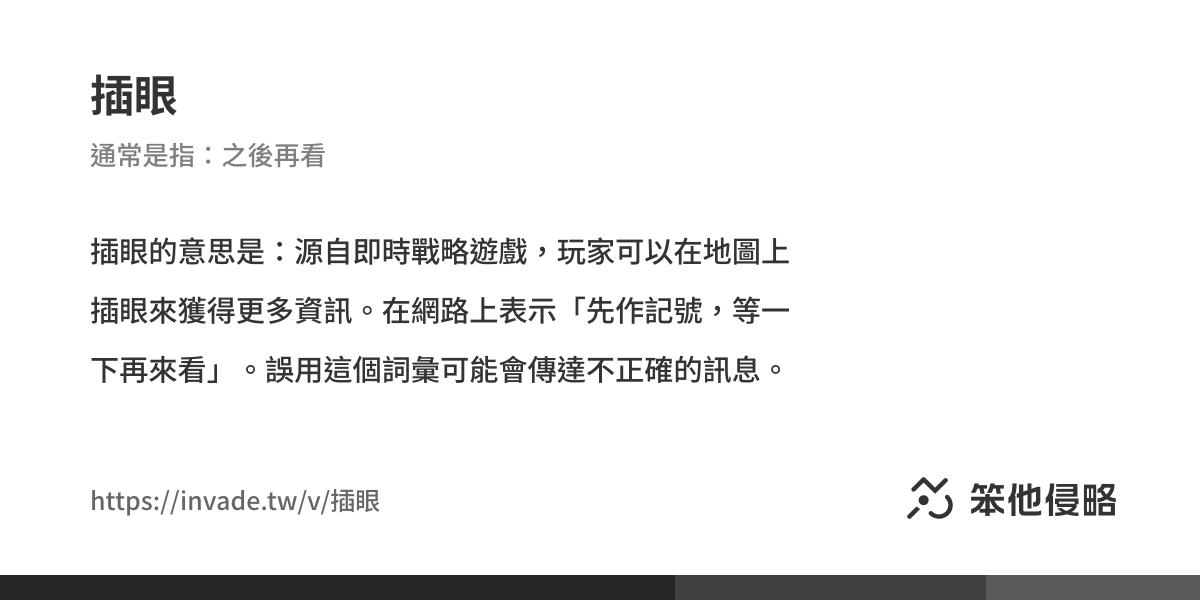
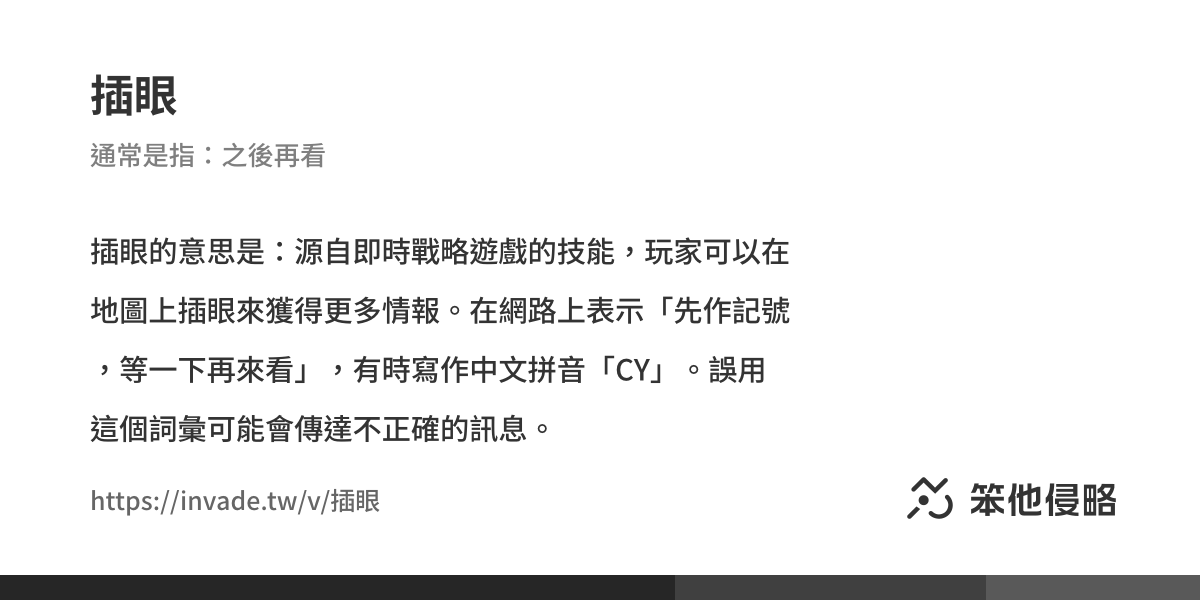
update

diff --git a/docs/v/插眼.html b/docs/v/插眼.html
@@ -1,9 +1,9 @@
-<!doctype html><html class="is-secondary is-sharp"><meta charset=utf-8><meta name=viewport content="width=device-width,initial-scale=1"><title>《插眼》的意思、解釋及例句｜中國侵略性詞彙、支語字典</title><link rel=stylesheet href=https://invade.tw/assets/tocas/tocas.min.css><script src=https://invade.tw/assets/tocas/tocas.min.js></script><link rel=preconnect href=https://fonts.googleapis.com><link rel=preconnect href=https://fonts.gstatic.com crossorigin><link href="https://fonts.googleapis.com/css2?family=Noto+Sans+TC:wght@400;500;700&display=swap" rel=stylesheet><link rel=stylesheet href=https://invade.tw/assets/styles/style.css><link rel=stylesheet href=https://invade.tw/assets/styles/vocab.css><script src=https://invade.tw/assets/scripts/db_store.js defer></script><script src=https://invade.tw/assets/scripts/db_random_items.js defer></script><script src=https://invade.tw/assets/scripts/db_random_vocabs.js defer></script><script src=https://invade.tw/assets/scripts/random_store.js defer></script><script src=https://cdnjs.cloudflare.com/ajax/libs/alpinejs/3.14.5/cdn.min.js defer></script><meta name=description content=插眼的意思是：源自即時戰略遊戲，玩家可以在地圖上插眼來獲得更多資訊。在網路上表示「先作記號，等一下再來看」。><meta name=twitter:card content=summary><meta name=twitter:title content=《插眼》的意思、解釋及例句｜中國侵略性詞彙、支語字典><meta name=twitter:description content=插眼的意思是：源自即時戰略遊戲，玩家可以在地圖上插眼來獲得更多資訊。在網路上表示「先作記號，等一下再來看」。><meta name=twitter:image content=https://invade.tw/assets/vocab_covers/5o+S55y8.png><meta property=og:site_name content=中國侵略資料庫><meta property=og:title content=《插眼》的意思、解釋及例句｜中國侵略性詞彙、支語字典><meta property=og:type content=article><meta property=og:image content=https://invade.tw/assets/vocab_covers/5o+S55y8.png><meta property=og:url content=https://invade.tw/v/插眼><meta property=og:image:type content=image/png><meta property=og:image:width content=1200><meta property=og:image:height content=600><meta property=og:description content=插眼的意思是：源自即時戰略遊戲，玩家可以在地圖上插眼來獲得更多資訊。在網路上表示「先作記號，等一下再來看」。><meta property=og:updated_time content=2025-02-13T10:00:44+08:00><meta property=article:modified_time content=2025-02-13T10:00:44+08:00><link rel=apple-touch-icon sizes=180x180 href=https://invade.tw/assets/favicons/apple-touch-icon.png><link rel=icon type=image/png sizes=32x32 href=https://invade.tw/assets/favicons/favicon-32x32.png><link rel=icon type=image/png sizes=16x16 href=https://invade.tw/assets/favicons/favicon-16x16.png><link rel=manifest href=https://invade.tw/assets/favicons/site.webmanifest><link rel=mask-icon href=https://invade.tw/assets/favicons/safari-pinned-tab.svg color=#5bbad5><link rel="shortcut icon" href=https://invade.tw/assets/favicons/favicon.ico><meta name=msapplication-TileColor content=#da532c><meta name=msapplication-config content=https://invade.tw/assets/favicons/browserconfig.xml><meta name=theme-color content=#ffffff><body class="tablet:裝置-平板 mobile:裝置-行動" x-data=random_store><div id=導覽列><div class=ts-container><div class="ts-grid is-middle-aligned is-relaxed mobile:has-hidden"><div class=column><div class="ts-wrap is-middle-aligned is-relaxed"><a href=https://invade.tw class="ts-image has-leading-none"><img id=導覽列-商標 src=https://invade.tw/assets/images/logo-text.svg></a>
+<!doctype html><html class="is-secondary is-sharp"><meta charset=utf-8><meta name=viewport content="width=device-width,initial-scale=1"><title>《插眼》的意思、解釋及例句｜中國侵略性詞彙、支語字典</title><link rel=stylesheet href=https://invade.tw/assets/tocas/tocas.min.css><script src=https://invade.tw/assets/tocas/tocas.min.js></script><link rel=preconnect href=https://fonts.googleapis.com><link rel=preconnect href=https://fonts.gstatic.com crossorigin><link href="https://fonts.googleapis.com/css2?family=Noto+Sans+TC:wght@400;500;700&display=swap" rel=stylesheet><link rel=stylesheet href=https://invade.tw/assets/styles/style.css><link rel=stylesheet href=https://invade.tw/assets/styles/vocab.css><script src=https://invade.tw/assets/scripts/db_store.js defer></script><script src=https://invade.tw/assets/scripts/db_random_items.js defer></script><script src=https://invade.tw/assets/scripts/db_random_vocabs.js defer></script><script src=https://invade.tw/assets/scripts/random_store.js defer></script><script src=https://cdnjs.cloudflare.com/ajax/libs/alpinejs/3.14.5/cdn.min.js defer></script><meta name=description content=插眼的意思是：源自即時戰略遊戲的技能，玩家可以在地圖上插眼來獲得更多情報。在網路上表示「先作記號，等一下再來看」，有時寫作中文拼音「CY」。><meta name=twitter:card content=summary><meta name=twitter:title content=《插眼》的意思、解釋及例句｜中國侵略性詞彙、支語字典><meta name=twitter:description content=插眼的意思是：源自即時戰略遊戲的技能，玩家可以在地圖上插眼來獲得更多情報。在網路上表示「先作記號，等一下再來看」，有時寫作中文拼音「CY」。><meta name=twitter:image content=https://invade.tw/assets/vocab_covers/5o+S55y8.png><meta property=og:site_name content=中國侵略資料庫><meta property=og:title content=《插眼》的意思、解釋及例句｜中國侵略性詞彙、支語字典><meta property=og:type content=article><meta property=og:image content=https://invade.tw/assets/vocab_covers/5o+S55y8.png><meta property=og:url content=https://invade.tw/v/插眼><meta property=og:image:type content=image/png><meta property=og:image:width content=1200><meta property=og:image:height content=600><meta property=og:description content=插眼的意思是：源自即時戰略遊戲的技能，玩家可以在地圖上插眼來獲得更多情報。在網路上表示「先作記號，等一下再來看」，有時寫作中文拼音「CY」。><meta property=og:updated_time content=2025-02-13T10:03:00+08:00><meta property=article:modified_time content=2025-02-13T10:03:00+08:00><link rel=apple-touch-icon sizes=180x180 href=https://invade.tw/assets/favicons/apple-touch-icon.png><link rel=icon type=image/png sizes=32x32 href=https://invade.tw/assets/favicons/favicon-32x32.png><link rel=icon type=image/png sizes=16x16 href=https://invade.tw/assets/favicons/favicon-16x16.png><link rel=manifest href=https://invade.tw/assets/favicons/site.webmanifest><link rel=mask-icon href=https://invade.tw/assets/favicons/safari-pinned-tab.svg color=#5bbad5><link rel="shortcut icon" href=https://invade.tw/assets/favicons/favicon.ico><meta name=msapplication-TileColor content=#da532c><meta name=msapplication-config content=https://invade.tw/assets/favicons/browserconfig.xml><meta name=theme-color content=#ffffff><body class="tablet:裝置-平板 mobile:裝置-行動" x-data=random_store><div id=導覽列><div class=ts-container><div class="ts-grid is-middle-aligned is-relaxed mobile:has-hidden"><div class=column><div class="ts-wrap is-middle-aligned is-relaxed"><a href=https://invade.tw class="ts-image has-leading-none"><img id=導覽列-商標 src=https://invade.tw/assets/images/logo-text.svg></a>
 <a class=導覽列-項目 href=https://invade.tw/items><span class="ts-icon is-regular is-compass-icon"></span>瀏覽</a></div></div><div class="column is-center-aligned is-fluid"><form action=https://invade.tw/vocabs><div id=導覽列-搜尋欄位 class="ts-input is-solid is-start-icon tablet:has-hidden"><span class="ts-icon is-magnifying-glass-icon"></span><input type=search name=q placeholder=搜尋詞彙…></div></form></div><div class=column><div class="ts-wrap is-relaxed is-end-aligned"><a class=導覽列-項目 href=https://invade.tw/about><span class="ts-icon is-regular is-circle-question-icon"></span>關於</a>
 <a class=導覽列-項目 href=https://invade.tw/news><span class="ts-icon is-regular is-message-icon"></span>新聞</a>
 <a class=導覽列-項目 target=_blank href=https://github.com/caris-events/invade><span class="ts-icon is-brand is-github-icon"></span>GitHub</a></div></div></div><div class="ts-grid is-middle-aligned tablet+:has-hidden"><div class="column is-fluid"><div class="ts-wrap is-middle-aligned is-relaxed"><button id=導覽列-漢堡按鈕 type=button class="ts-button is-icon is-large is-ghost" data-dialog=側邊欄>
 <span class="ts-icon is-bars-icon"></span></button>
-<a href=https://invade.tw class="ts-image has-leading-none"><img id=導覽列-商標 src=https://invade.tw/assets/images/logo-text.svg></a></div></div><div class=column><a class="ts-button is-icon is-large is-ghost" href=https://invade.tw/vocabs><span class="ts-icon is-magnifying-glass-icon"></span></a><a class="ts-button is-icon is-large is-ghost" href=https://github.com/caris-events/invade target=_blank><span class="ts-icon is-brand is-github-icon"></span></a></div></div></div></div><div class=ts-divider></div><dialog id=側邊欄 class="ts-app-drawer is-start"><div class="content has-flex-column"><div id=側邊欄-標頭 class=ts-content><button id=側邊欄-關閉按鈕 class="ts-close is-secondary is-large" data-dialog=側邊欄></button></div><div id=側邊欄-選單 class="ts-menu is-start-icon"><div class=ts-divider></div><a class=item href=https://invade.tw><span class="ts-icon is-house-icon"></span>首頁</a><div class=ts-divider></div><a class=item href=https://invade.tw/items><span class="ts-icon is-list-icon"></span>瀏覽所有項目</a><div class=ts-divider></div></div><div class=has-top-spaced-auto><div id=側邊欄-選單 class="ts-menu is-start-icon"><div class=ts-divider></div><a class=item href=https://invade.tw/about><span class="ts-icon is-circle-question-icon"></span>關於</a><div class=ts-divider></div><a class=item href=https://invade.tw/news><span class="ts-icon is-newspaper-icon"></span>新聞</a><div class=ts-divider></div><a class=item target=_blank href=https://invade.tw/contribute><span class="ts-icon is-pen-to-square-icon"></span>建議、修改條目</a><div class=ts-divider></div><a class=item target=_blank href=https://github.com/caris-events/invade><span class="ts-icon is-brand is-github-icon"></span>GitHub</a><div class=ts-divider></div></div></div><div class=ts-content><button class="ts-button is-outlined is-fluid" data-dialog=側邊欄>關閉選單</button></div></div></dialog><div class="ts-container tablet-:has-vertically-padded-large desktop+:has-vertically-padded-big mobile:is-fitted"><div id=單字-板岩><div class=ts-grid><div class="column is-fluid"><div class="ts-wrap is-compact has-bottom-spaced tablet+:has-hidden"><a href="https://invade.tw/vocabs?c=INTERNET" class="ts-badge is-secondary">網路用語</a></div><div class="ts-wrap mobile:is-compact"><div class=單字-板岩-每個分解><div class=單字-板岩-每個分解-漢字>插</div><div class="單字-板岩-每個分解-注音 has-flex-center"><div class="ts-text is-bold">ㄔ</div><div class="ts-text is-bold">ㄚ</div></div></div><div class=單字-板岩-每個分解><div class=單字-板岩-每個分解-漢字>眼</div><div class="單字-板岩-每個分解-注音 has-flex-center"><div class="ts-text is-bold">ㄧ</div><div class="ts-text is-bold">ㄢ</div><div class=單字-板岩-每個分解-注音-標點符號>ˇ</div></div></div></div><div id=單字-板岩-說明 class="tablet+:has-top-spaced-large mobile:has-top-spaced tablet+:has-16px mobile:has-15px">源自即時戰略遊戲，玩家可以在地圖上插眼來獲得更多資訊。在網路上表示「先作記號，等一下再來看」。</div></div><div class="column mobile:has-hidden"><div class="ts-wrap is-compact is-end-aligned"><span class="ts-text is-secondary">分類：</span>
+<a href=https://invade.tw class="ts-image has-leading-none"><img id=導覽列-商標 src=https://invade.tw/assets/images/logo-text.svg></a></div></div><div class=column><a class="ts-button is-icon is-large is-ghost" href=https://invade.tw/vocabs><span class="ts-icon is-magnifying-glass-icon"></span></a><a class="ts-button is-icon is-large is-ghost" href=https://github.com/caris-events/invade target=_blank><span class="ts-icon is-brand is-github-icon"></span></a></div></div></div></div><div class=ts-divider></div><dialog id=側邊欄 class="ts-app-drawer is-start"><div class="content has-flex-column"><div id=側邊欄-標頭 class=ts-content><button id=側邊欄-關閉按鈕 class="ts-close is-secondary is-large" data-dialog=側邊欄></button></div><div id=側邊欄-選單 class="ts-menu is-start-icon"><div class=ts-divider></div><a class=item href=https://invade.tw><span class="ts-icon is-house-icon"></span>首頁</a><div class=ts-divider></div><a class=item href=https://invade.tw/items><span class="ts-icon is-list-icon"></span>瀏覽所有項目</a><div class=ts-divider></div></div><div class=has-top-spaced-auto><div id=側邊欄-選單 class="ts-menu is-start-icon"><div class=ts-divider></div><a class=item href=https://invade.tw/about><span class="ts-icon is-circle-question-icon"></span>關於</a><div class=ts-divider></div><a class=item href=https://invade.tw/news><span class="ts-icon is-newspaper-icon"></span>新聞</a><div class=ts-divider></div><a class=item target=_blank href=https://invade.tw/contribute><span class="ts-icon is-pen-to-square-icon"></span>建議、修改條目</a><div class=ts-divider></div><a class=item target=_blank href=https://github.com/caris-events/invade><span class="ts-icon is-brand is-github-icon"></span>GitHub</a><div class=ts-divider></div></div></div><div class=ts-content><button class="ts-button is-outlined is-fluid" data-dialog=側邊欄>關閉選單</button></div></div></dialog><div class="ts-container tablet-:has-vertically-padded-large desktop+:has-vertically-padded-big mobile:is-fitted"><div id=單字-板岩><div class=ts-grid><div class="column is-fluid"><div class="ts-wrap is-compact has-bottom-spaced tablet+:has-hidden"><a href="https://invade.tw/vocabs?c=INTERNET" class="ts-badge is-secondary">網路用語</a></div><div class="ts-wrap mobile:is-compact"><div class=單字-板岩-每個分解><div class=單字-板岩-每個分解-漢字>插</div><div class="單字-板岩-每個分解-注音 has-flex-center"><div class="ts-text is-bold">ㄔ</div><div class="ts-text is-bold">ㄚ</div></div></div><div class=單字-板岩-每個分解><div class=單字-板岩-每個分解-漢字>眼</div><div class="單字-板岩-每個分解-注音 has-flex-center"><div class="ts-text is-bold">ㄧ</div><div class="ts-text is-bold">ㄢ</div><div class=單字-板岩-每個分解-注音-標點符號>ˇ</div></div></div></div><div id=單字-板岩-說明 class="tablet+:has-top-spaced-large mobile:has-top-spaced tablet+:has-16px mobile:has-15px">源自即時戰略遊戲的技能，玩家可以在地圖上插眼來獲得更多情報。在網路上表示「先作記號，等一下再來看」，有時寫作中文拼音「CY」。</div></div><div class="column mobile:has-hidden"><div class="ts-wrap is-compact is-end-aligned"><span class="ts-text is-secondary">分類：</span>
 <a href="https://invade.tw/vocabs?c=INTERNET" class="ts-badge is-secondary">網路用語</a></div></div></div><div id=單字-板岩-角落文字>侵略性詞彙</div></div><div class="ts-grid tablet+:is-relaxed tablet+:has-top-spaced-big mobile:has-top-spaced-large mobile:is-stacked"><div class="column tablet:is-11-wide desktop+:is-12-wide"><div class="ts-header mobile:has-horizontally-padded">用法與例句</div><div class="ts-box has-top-spaced mobile:has-edged"><div class="ts-content tablet+:is-padded mobile:is-vertically-padded"><div class=ts-header><span class=單字-範例符號>◆</span>
 之後再看、等一下再看</div><div class="tablet+:ts-content is-rounded is-secondary has-top-spaced"><div class="ts-grid mobile:is-compact"><div class=column><span class="單字-對應國家 mobile:has-13px">台灣</span></div><div class="column is-fluid"><p>這篇文章真有意思，我決定<span class=單字-螢光標記-重點>之後再看</span>。</div></div><div class="ts-grid mobile:is-compact has-top-spaced"><div class=column><span class="單字-對應國家 mobile:has-13px">中國</span></div><div class="column is-fluid"><p>這篇文章真有意思，我先<span class=單字-螢光標記-重點>插眼</span>。</div></div></div><div class="ts-divider has-vertically-spaced-large has-hidden-last"></div></div></div><div class="ts-grid is-bottom-aligned tablet+:has-top-spaced-big mobile:has-top-spaced-large mobile:has-horizontally-padded"><div class="column is-fluid"><div class=ts-header>看看這些詞彙</div></div><div class=column><a href=https://invade.tw/vocabs class="ts-button is-outlined">檢視更多</a></div></div><div id=隨機詞彙 class="ts-grid is-3-columns has-top-spaced tablet+:is-3-columns mobile:is-2-columns mobile:has-horizontally-padded"><template x-for="vocab in vocabs(9)"><div class=column><a :href="`https://invade.tw/v/${vocab.word}`" class=ts-box><div class="ts-content tablet+:is-horizontally-padded"><div class="ts-text is-bold is-1-lines tablet+:has-16px mobile:has-15px" x-text=vocab.word></div><div class="ts-text is-secondary is-1-lines" x-text=vocab.correct_word></div></div></a></div></template></div><div class="ts-grid is-bottom-aligned tablet+:has-top-spaced-big mobile:has-top-spaced-large mobile:has-horizontally-padded"><div class="column is-fluid"><div class=ts-header>看看這些品牌</div></div><div class=column><a href=https://invade.tw/items class="ts-button is-outlined">檢視更多</a></div></div><div id=隨機條目 class="ts-grid has-top-spaced desktop+:is-5-columns tablet:is-3-columns mobile:is-2-columns mobile:has-horizontally-padded"><template x-for="item in items(10)"><div class=column><a :href="`https://invade.tw/${item.code}`" class=ts-box><div class="ts-content is-center-aligned"><div class="商標圖示 商標圖示-隨機項目 ts-image"><img :src="`https://invade.tw/assets/item_logos/${item.code}.jpg`"></div><div class="ts-text is-1-lines is-center-aligned has-15px" x-text=item.name></div><div class="ts-text is-secondary is-1-lines"><template x-if="item.name_alias !== ''"><span x-text=item.name_alias></span></template><template x-if="item.name_alias === ''"><span x-text="`${item.owner_str}${item.type_str}`"></span></template></div></div></a></div></template></div></div><div class="column tablet:is-5-wide desktop+:is-4-wide mobile:has-horizontally-padded"><div class="ts-header mobile:has-top-spaced">侵略性詞彙是什麼？</div><div class="ts-text is-secondary has-top-spaced"><p>經過中國的言論審查、中共思想而使用的詞彙，例如：中國常以「領導」代稱台灣總統；或以「台灣地區」來暗喻台灣不是國家。<p>語言代表一個國家的文化與思想，若長時間誤用這些詞彙，可能會在無形之中影響自己的思考方式。</p><a href=https://invade.tw/n/侵略性詞彙的定義 class="ts-button is-circular is-outlined">了解更多</a></div><div class="ts-divider has-vertically-spaced-large"></div><div class=ts-header>透過匿名方式提供內容</div><div class="ts-text is-secondary has-top-spaced">保持匿名性來協助新增、編輯條目，請透過此 Google 表單填寫資料。</div><a target=_blank rel="noopener noreferrer" href=https://invade.tw/contribute class="ts-button is-circular is-outlined has-top-spaced">填寫 Google 表單</a></div></div></div><div class=ts-divider></div><div class="ts-container has-top-padded-big tablet:has-bottom-padded-big desktop+:has-bottom-padded-huge mobile:has-bottom-padded-big"><div class="ts-grid is-bottom-aligned is-relaxed mobile:is-stacked"><div class="column tablet:is-11-wide desktop+:is-12-wide"><div id=頁腳-文字 class=has-leading-large>此頁面之商標、圖示屬於該相關組織且僅作為提及並無挪作他用。在非營利與教育目的下主張合理使用並以低解析度保護原著作。資料來自網路參考、大眾共同編輯，閱聽者應妥善查證其完整性、即時性與正確性，且不得作為法律依據。<br><br>笨他侵略來自
 <span id=頁腳-國旗 class="ts-flag is-taiwan-flag is-rounded is-small"></span>台灣，原始碼授權為

diff --git a/docs/assets/scripts/db_random_items.js b/docs/assets/scripts/db_random_items.js
@@ -1,1 +1,1 @@
-var db_random_items = [["ducati","Ducati","杜卡迪",4,1,2],["matea-tea","麻六茶","MATEA",1,1,4],["smilegate","微笑之門","SmileGate",4,1,4],["mover-games","魔塊遊戲","Mover Games",1,1,2],["muang-thai-life-assurance","泰國人壽保險公司","Muang Thai Life Assurance",4,1,0],["meridian-project","子午計畫","Meridian Project",1,7,2],["sunnyhills","微熱山丘","SunnyHills",1,1,4],["capital-group","資本集團","Capital Group",4,1,0],["mundfish","Mundfish","",4,1,3],["4399","四三九九網路","4399",3,1,3],["gogoro-network","Gogoro Network","",1,7,2],["game-tree","亦樹遊戲","Game Tree",1,1,3],["37-interactive-entertainment","三七互娛","37 Games",3,1,3],["louisa-coffee","路易莎咖啡","Louisa Coffee",1,1,0],["anker-innovations","Anker","安克創新科技",3,1,4],["spgame","成都露珠","Spring Game",3,1,3],["netease","網易","Netease",3,1,3],["ubisoft","育碧娛樂","Ubisoft Entertainment SA",4,1,4],["sohu","搜狐","Sohu",3,1,3],["paypal","PayPal","",4,1,4],["muse-dash","喵斯快跑","Muse Dash",3,6,4],["fubon-financial-holding","富邦金控","Fubon Financial Holding",1,1,2],["midea","美的集團","Midea Group",3,1,3],["timi-studio","天美工作室","TiMi Studio Group",3,1,3],["gwebtop","暢游雲端","GwebTop",3,1,3],["china-times","中時新聞網","China Times",1,1,4],["qingci-games","青瓷數碼","Qingci Games",3,1,3],["rotaeno","旋轉音律","Rotaeno",4,6,2],["mozilla-servo","Servo","",4,4,0],["mahjong-meta","Mahjong Meta","",4,6,4],["yifang-taiwan-fruit-tea","一芳台灣水果茶","Yifang Taiwan Fruit Tea",1,1,4],["bytedance","字節跳動","ByteDance",3,1,3],["about-captial-management","百域資本","About Capital Management",2,1,0],["arknights-endfield","明日方舟：終末地","Arknights: Endfield",3,6,3],["yingsin-win","盈新五金","",1,1,2],["super-soco","Super Soco","速珂",3,1,3],["hero-games","英雄遊戲","Hero Games",3,1,3],["wanda-cinemas-games","萬達院線遊戲","Wanda Cinemas Games",3,1,3],["united-nations","聯合國","United Nations",4,3,4],["greenwoods-asset-management","景林資產","Greenwoods Asset Management Limited",3,1,3],["wind-fantasy-nexus","風色幻想：NeXus","Wind Fantasy: NeXus",1,6,2],["playcrab","玩蟹科技","Playcrab",3,1,3],["alibaba","阿里巴巴","Alibaba Group",3,1,3],["hearts-net","紅心網路","Hearts Net",1,1,3],["cti-news","中天新聞","CTI News Channel",1,1,4],["starwave-networks","STARWAVE NET","",3,1,0],["zlon-game","紫龍遊戲","Zlon Game",3,1,3],["btg","首旅集團","Beijing Tourism Group",3,3,4],["msi","微星科技","MSI",1,1,4],["legend-of-phantom-beast-m","幻獸傳說 M","Legend of Phantom Beast M",3,6,3],["kuka","庫卡","KUKA AG",4,1,4],["hsushiyuan","徐熙媛","大S",1,2,2],["peiyu-digital","沛羽數位","Peiyu Digital",1,1,0],["national-university-of-defense-technology","國防科技大學","NUDT",3,3,4],["bilibili","嗶哩嗶哩","Bilibili",3,1,4],["chinese-communist-party","中國共產黨","CCP",3,3,4],["kartrider-drift","跑跑卡丁車：飄移","KartRider: Drift",4,6,4],["deepseek","深度求索","DeepSeek",3,1,4],["far-eastern-group","遠東集團","Far Eastern Group",1,1,4],["akamai","Akamai","",4,1,4],["unity","Unity","",4,1,4],["jieyou","捷遊軟件","Jieyou",3,1,3],["shiyue-joy","詩悅網路","ShiYue Joy",3,1,3],["rapoo","雷柏科技","RAPOO",3,1,4],["gamedreamer","晶綺科技","GameDreamer",1,1,0],["disney-interactive","迪士尼互動","Disney Interactive",4,1,4],["eskyfun","天游網路","Eskyfun",3,1,3],["tuanjie-engine","團結引擎","Tuanjie Engine",3,4,4],["str-network","薩泰爾娛樂","STR Network",1,1,2],["stargazer-games","Stargazer Games","",3,1,3],["zte","中興通訊","ZTE",3,1,3],["original-games","奧瑞吉","Original Games",1,1,3],["funplus-phoenix","FPX 電子競技俱樂部","FunPlus Phoneix",3,3,3],["aga-expo","AGA 成人動漫展","",1,3,1],["mihoyo","米哈遊","miHoYo",3,1,3],["hoto","小猴科技","HOTO",3,1,3],["huawei-cloud","華為雲","Huawei Cloud",3,5,3],["sea","冬海集團","Sea Limited",4,1,3],["wanda-group","萬達集團","Wanda Group",3,1,3],["orient-international","東方國際","Orient International",3,1,4],["boton","寶通科技","Boton",3,1,3],["genshin-impact","原神","Genshin Impact",3,6,3],["hoyoverse","HoYoverse","",3,5,3],["shimmer-games","微光互動","Shimmer Games",3,1,3],["john-cena","John Cena","約翰·希南",4,2,1],["soundcore","Soundcore","聲闊",3,7,4],["ikulaoshi","Iku 老師","Ikulaoshi",4,2,1],["world-health-organization","世界衛生組織","World Health Organization",4,3,4],["microsoft","微軟","Microsoft",4,1,2],["miside","MiSide","",4,6,0],["nanshan-capital","南山資本","Nanshan Capital",3,1,3],["lava-music","拿火音樂","LAVA MUSIC",3,1,3],["long-cheng","龍成網路","Long Cheng",1,1,4],["dhgames","卓杭科技","DHGames",3,1,3],["shuangjiang","霜江茶行","Shuangjiang",1,1,4],["changyou","暢遊時代","Changyou",3,1,3],["hypergryph","鷹角網絡","HYPERGRYPH",3,1,3],["nespresso","Nespresso","",4,1,2],["tamano-kedama","玉之けだま","毛玉牛乳",4,2,4],["harmonyos","鴻蒙","HarmonyOS",3,4,3]]
+var db_random_items = [["sea","冬海集團","Sea Limited",4,1,3],["ionex","Ionex","",1,7,2],["hypergryph","鷹角網絡","HYPERGRYPH",3,1,3],["sjhuatong","世紀華通","CHT",3,1,3],["g-bits","吉比特","G-bits",3,1,3],["komoe-game","小萌科技","Komoe Game",1,1,4],["supercell","超級細胞","Supercell Oy",4,1,3],["efun-tw","Efun遊戲平台","efuntw",1,5,3],["timi-studio","天美工作室","TiMi Studio Group",3,1,3],["tuanjie-engine","團結引擎","Tuanjie Engine",3,4,4],["gamedreamer","晶綺科技","GameDreamer",1,1,0],["gaijin-entertainment","Gaijin Entertainment","",4,1,4],["gogoro-network","Gogoro Network","",1,7,2],["paradise-entertainment","匯彩控股","Paradise Entertainment",2,1,0],["mozilla","Mozilla","",4,1,0],["r2-games","燦和兄弟","R2 Games",3,1,3],["central-military-commission","中央軍事委員會","CMC",3,3,4],["taiwan-peoples-party","台灣民眾黨","Taiwan People's Party",1,3,0],["baidu","百度","Baidu",3,1,3],["mobvista","匯量科技","Mobvista",3,1,3],["boton","寶通科技","Boton",3,1,3],["porsche","保時捷","Porsche",4,1,1],["milwaukee-tool","美沃奇","Milwaukee Tool",4,1,4],["oppo","OPPO","歐珀",3,1,3],["yingsin-win","盈新五金","",1,1,2],["hao123","Hao123","",3,1,3],["princess-cant-defend","公主守不了","Princess Can't Defend",3,6,3],["mobimon","移動怪獸","MobiMon",1,1,3],["volvo","Volvo","富豪汽車",4,1,4],["reverse-1999","重返未來：1999","Reverse: 1999",3,6,3],["want-want-china-times-group","旺旺中時媒體集團","Want Want China Times Group",1,1,4],["magic-house-interactive-entertainment","魔法屋互動娛樂","Magic House Interactive Entertainment",1,1,2],["netease","網易","Netease",3,1,3],["linkedin","LinkedIn","領英",4,5,2],["tangren-media","唐人影視","Tangren Media",3,1,3],["meng52","萌我愛網路","Meng52",3,1,3],["united-daily-news","聯合報","United Daily News",1,1,1],["forgame","雲遊控股","Forgame",3,1,3],["gogoro","Gogoro","",1,1,2],["nexon","樂線","Nexon",4,1,4],["mihoyo","米哈遊","miHoYo",3,1,3],["kymco","KYMCO","光陽機車",1,1,2],["marathon-game","馬拉松","Marathon",4,6,1],["bang-dream-mygo","MyGO!!!!!","",4,7,2],["louisa-coffee","路易莎咖啡","Louisa Coffee",1,1,0],["national-university-of-defense-technology","國防科技大學","NUDT",3,3,4],["acerpure","Acerpure","宏碁智新",1,1,2],["original-games","奧瑞吉","Original Games",1,1,3],["xingyou","星遊科技","XingYou",3,1,3],["baitian","百奧家庭互動","Baitian",3,1,3],["perfect-world","完美世界","Perfect World",3,1,3],["martian-game","火星人互動娛樂","Martian Game",3,1,3],["eskyfun","天游網路","Eskyfun",3,1,3],["cognosphere","Cognosphere","識隙之城",4,1,3],["wind-fantasy-nexus","風色幻想：NeXus","Wind Fantasy: NeXus",1,6,2],["aihuanhuan","換換","",3,1,3],["msi","微星科技","MSI",1,1,4],["bbk","步步高","BBK",3,1,3],["babeltime","巴別時代","Babeltime",3,1,3],["sequoia-capital","紅杉資本","Sequoia Capital",4,1,0],["bungie","Bungie","",4,1,1],["ht-tactical-industrial","浤泰戰術工業","HT Tactical Industrial Co.",1,1,0],["taiwan-mobile","台灣大哥大","Taiwan Mobile",1,1,2],["chinese-academy-of-sciences","中國科學院","Chinese Academy Of Sciences",3,3,4],["amatsuki-mahjong","天月麻雀","Amatsuki Mahjong",3,6,3],["hoyoverse","HoYoverse","",3,5,3],["mojang-studio","Mojang Studios","",4,1,4],["genshin-impact","原神","Genshin Impact",3,6,3],["smilegate","微笑之門","SmileGate",4,1,4],["deepseek","深度求索","DeepSeek",3,1,4],["str-network","薩泰爾娛樂","STR Network",1,1,2],["dragonest","龍淵網路","Dragonest",3,1,3],["rapoo","雷柏科技","RAPOO",3,1,4],["total-tools","TOTAL 工具","TOTAL Tools",3,1,4],["garmin","台灣國際航電","Garmin",4,1,4],["kingsgroup","王者在線","KingsGroup",3,1,3],["tower-of-fantasy","幻塔","Tower of Fantasy",3,6,3],["yokaverse","游卡網路","Yokaverse",3,1,3],["spgame","成都露珠","Spring Game",3,1,3],["inch-interactive-entertainment","英旗互動娛樂","Inch",1,1,3],["ducati","Ducati","杜卡迪",4,1,2],["htc","宏達電","HTC Corporation",1,1,4],["yadea","雅迪","Yadea",3,1,3],["china-mobile","中國移動","China Mobile",3,1,4],["huobi","火幣","Huobi",3,1,4],["changyou","暢遊時代","Changyou",3,1,3],["new-margin","聯創永宣","New Margin",3,1,3],["hsushiyuan","徐熙媛","大S",1,2,2],["jieyou","捷遊軟件","Jieyou",3,1,3],["taiwan-fixed-network","台灣固網","Taiwan Fixed Network",1,1,2],["shunwei-capital","順為資本","Shunwei Capital",3,1,3],["bilibili","嗶哩嗶哩","Bilibili",3,1,4],["pwb-play","品玩邦藝術","PWB Play",1,1,0],["ctrip","攜程旅行","Ctrip",3,1,3],["bushiroad","武士道","Bushiroad",4,1,2],["anker-innovations","Anker","安克創新科技",3,1,4],["fun-hope","峰禾科技","FunHope",1,1,3],["dcard","Dcard","",1,1,2],["girls-frontline","少女前線","Girls' Frontline",3,6,3],["btg","首旅集團","Beijing Tourism Group",3,3,4]]

diff --git a/docs/assets/scripts/db_random_vocabs.js b/docs/assets/scripts/db_random_vocabs.js
@@ -1,1 +1,1 @@
-var db_random_vocabs = [["蹭熱度","跟風、跟隨潮流"],["文件","資料、檔案"],["回車","Enter"],["打醬油","湊熱鬧、偶然路過"],["交互","互動"],["爆款","人氣"],["魔怔","著魔、走火入魔"],["萌萌噠","很可愛"],["有一說一","平心而論、實話實說、說真的"],["低端","低級、低階"],["打車","叫車"],["晚上好","晚安"],["嘎了","死了"],["記憶棒","MS 記憶卡"],["激活碼","啟動序號"],["激活","打開、啟用"],["宏","巨集"],["充值","儲值"],["變量","變數、變因"],["不科學","不合理、違反原理、不直覺"],["刷手機","滑手機"],["博客","部落格"],["靠譜","可靠"],["AWSL","幹我要死了、誰快幫我叫救護車、心臟快受不了"],["全屏","全螢幕"],["U盤","USB 隨身碟"],["長知識","學到了"],["積分","點數、分數、紅利"],["查找","搜尋、尋找"],["管飽","份量大、充裕、十足"],["文本","文字、劇本、劇情、文案"],["社牛","熱情"],["組件","元件"],["雞肋","多餘、毫無意義"],["軟件","軟體"],["逼格","格調、情懷、氣質"],["屏幕","螢幕"],["踩一捧一","自抬身價"],["教程","教學"],["快進","快轉、跳到"],["站著說話不腰疼","風涼話、高談闊論"],["跳閘","跳電"],["高大上","高貴、有氣質"],["佈局","格局"],["國企","國營事業"],["高清","高畫質、高音質"],["嘴替","代言人、發聲筒"],["打印","列印"],["奧術魔刃","ASMR"],["給力","可靠、厲害"],["鼠標","游標"],["狗子","狗、朋友"],["省流","懶人包"],["含金量","知識含量、潛在價值、內涵"],["白嫖","免費拿、白吃白喝"],["恰飯","工商、業配"],["屏蔽","隱藏、封鎖、遮蔽"],["艾特","標註、提醒"],["紋理","紋路、材質"],["傳感器","感測器、感光元件"],["掉線","斷線、分心、智商太低"],["辣眼睛","慘不忍睹"],["中國台灣","台灣"],["質量","品質"],["在線","線上、在線上"],["腦洞大開","異想天開、出其不意"],["老鐵","哥們"],["帶節奏","帶風向"],["真香","真棒、被打臉、嘴巴說不要，身體卻很誠實"],["碰瓷","假車禍、敲竹槓"],["端口","通訊埠"],["草泥馬","羊駝"],["模板","樣板、範本"],["無節操","不道德、不堪入目"],["手辦","模型、公仔、黏土人"],["字節","位元組"],["高亮","醒目提示、螢光註記"],["踩屎感拖鞋","發泡拖鞋"],["貌似","似乎、好像"],["幾個意思","什麼意思"],["悲摧","催淚、悲傷"],["前方高能","注意"],["本地化","在地化、道地"],["自定義","自訂、客製化"],["絲滑","順滑、流暢、順口"],["貓膩","內幕、隱情"],["懵逼","不明所以、困惑"],["贏麻","穩贏"],["早上好","早安"],["小區","社區"],["破防","深受打擊、玻璃心碎滿地、被說中了"],["樂子人","唯恐天下不亂、愉悅犯"],["高端","高級、高階"],["實屬","確實"],["直白","直接、明確"],["音頻","音訊"],["插眼","之後再看"],["黃油","奶油"],["銳評","一針見血、批評"],["操作系統","作業系統"]]
+var db_random_vocabs = [["演示","範例"],["手辦","模型、公仔、黏土人"],["小區","社區"],["幾個意思","什麼意思"],["長臉","給面子、出風頭"],["破防","深受打擊、玻璃心碎滿地、被說中了"],["樂子人","唯恐天下不亂、愉悅犯"],["網吧","網咖"],["積攢","累積"],["變量","變數、變因"],["龍傲天","開掛仔"],["調用","呼叫、執行、觸發"],["帖子","貼文、文章"],["YYDS","令人崇拜、意淫大師、永遠單身"],["回滾","回溯、還原"],["全局","全域"],["分辨率","解析度、取樣頻率"],["小號","分身帳號"],["尿性","個性、德性"],["摩的","機車"],["寄","完蛋了、GG"],["記憶棒","MS 記憶卡"],["直觀","直覺"],["美刀","美金"],["懵逼","不明所以、困惑"],["快進","快轉、跳到"],["負一屏","資訊主頁"],["全屏","全螢幕"],["躺平","擺爛、我就爛"],["跳閘","跳電"],["軟件","軟體"],["蹭熱度","跟風、跟隨潮流"],["佈局","格局"],["公交車","公車"],["激活","打開、啟用"],["線程","執行緒"],["埠口","通訊埠"],["河蟹","審查"],["套路","手法、劇本、老梗"],["土豆","馬鈴薯"],["視頻電話","視訊電話"],["吧唧","胸章"],["狗子","狗、朋友"],["攝像頭","相機、鏡頭"],["贏麻","穩贏"],["激活碼","啟動序號"],["信息","訊息、資訊"],["全家桶","方案、套餐"],["扯淡","胡扯"],["U盤","USB 隨身碟"],["靠譜","可靠"],["高端","高級、高階"],["反饋","反應、回饋"],["互聯網","網際網路"],["音頻","音訊"],["過渡","轉場"],["字節","位元組"],["舉報","檢舉"],["民政局","戶政事務所"],["線下","現場、實體"],["充值","儲值"],["蛋疼","頭疼、傷腦筋"],["抖色","遞色"],["傳感器","感測器、感光元件"],["高大上","高貴、有氣質"],["腦洞大開","異想天開、出其不意"],["恰飯","工商、業配"],["很好的","妥善地"],["前方高能","注意"],["顏值","很帥、很好看"],["項目","專案、選項"],["糾結","執著、惦記"],["小姊姊","正妹"],["固件","韌體"],["實打實","穩紮穩打、實實在在"],["奧術魔刃","ASMR"],["中國台灣","台灣"],["高玩","高手"],["補丁","修補程式、破解工具"],["新建","新增、建立"],["嘎了","死了"],["給力","可靠、厲害"],["白給","送頭"],["杯具","倒楣、慘了"],["咋的","怎麼樣、不管怎樣"],["打印","列印"],["自定義","自訂、客製化"],["鼠標","游標"],["實錘","證實"],["吸引眼球","引人矚目、目不轉睛"],["集成","整合、彙整"],["車間","生產線、倉庫"],["直白","直接、明確"],["大佬","高手、大大"],["教程","教學"],["爆棚","十足、破表"],["文件","資料、檔案"],["炸魚","碾壓、虐菜、欺負新手"],["手雷","手榴彈"],["內卷","過度競爭、內鬥"]]
